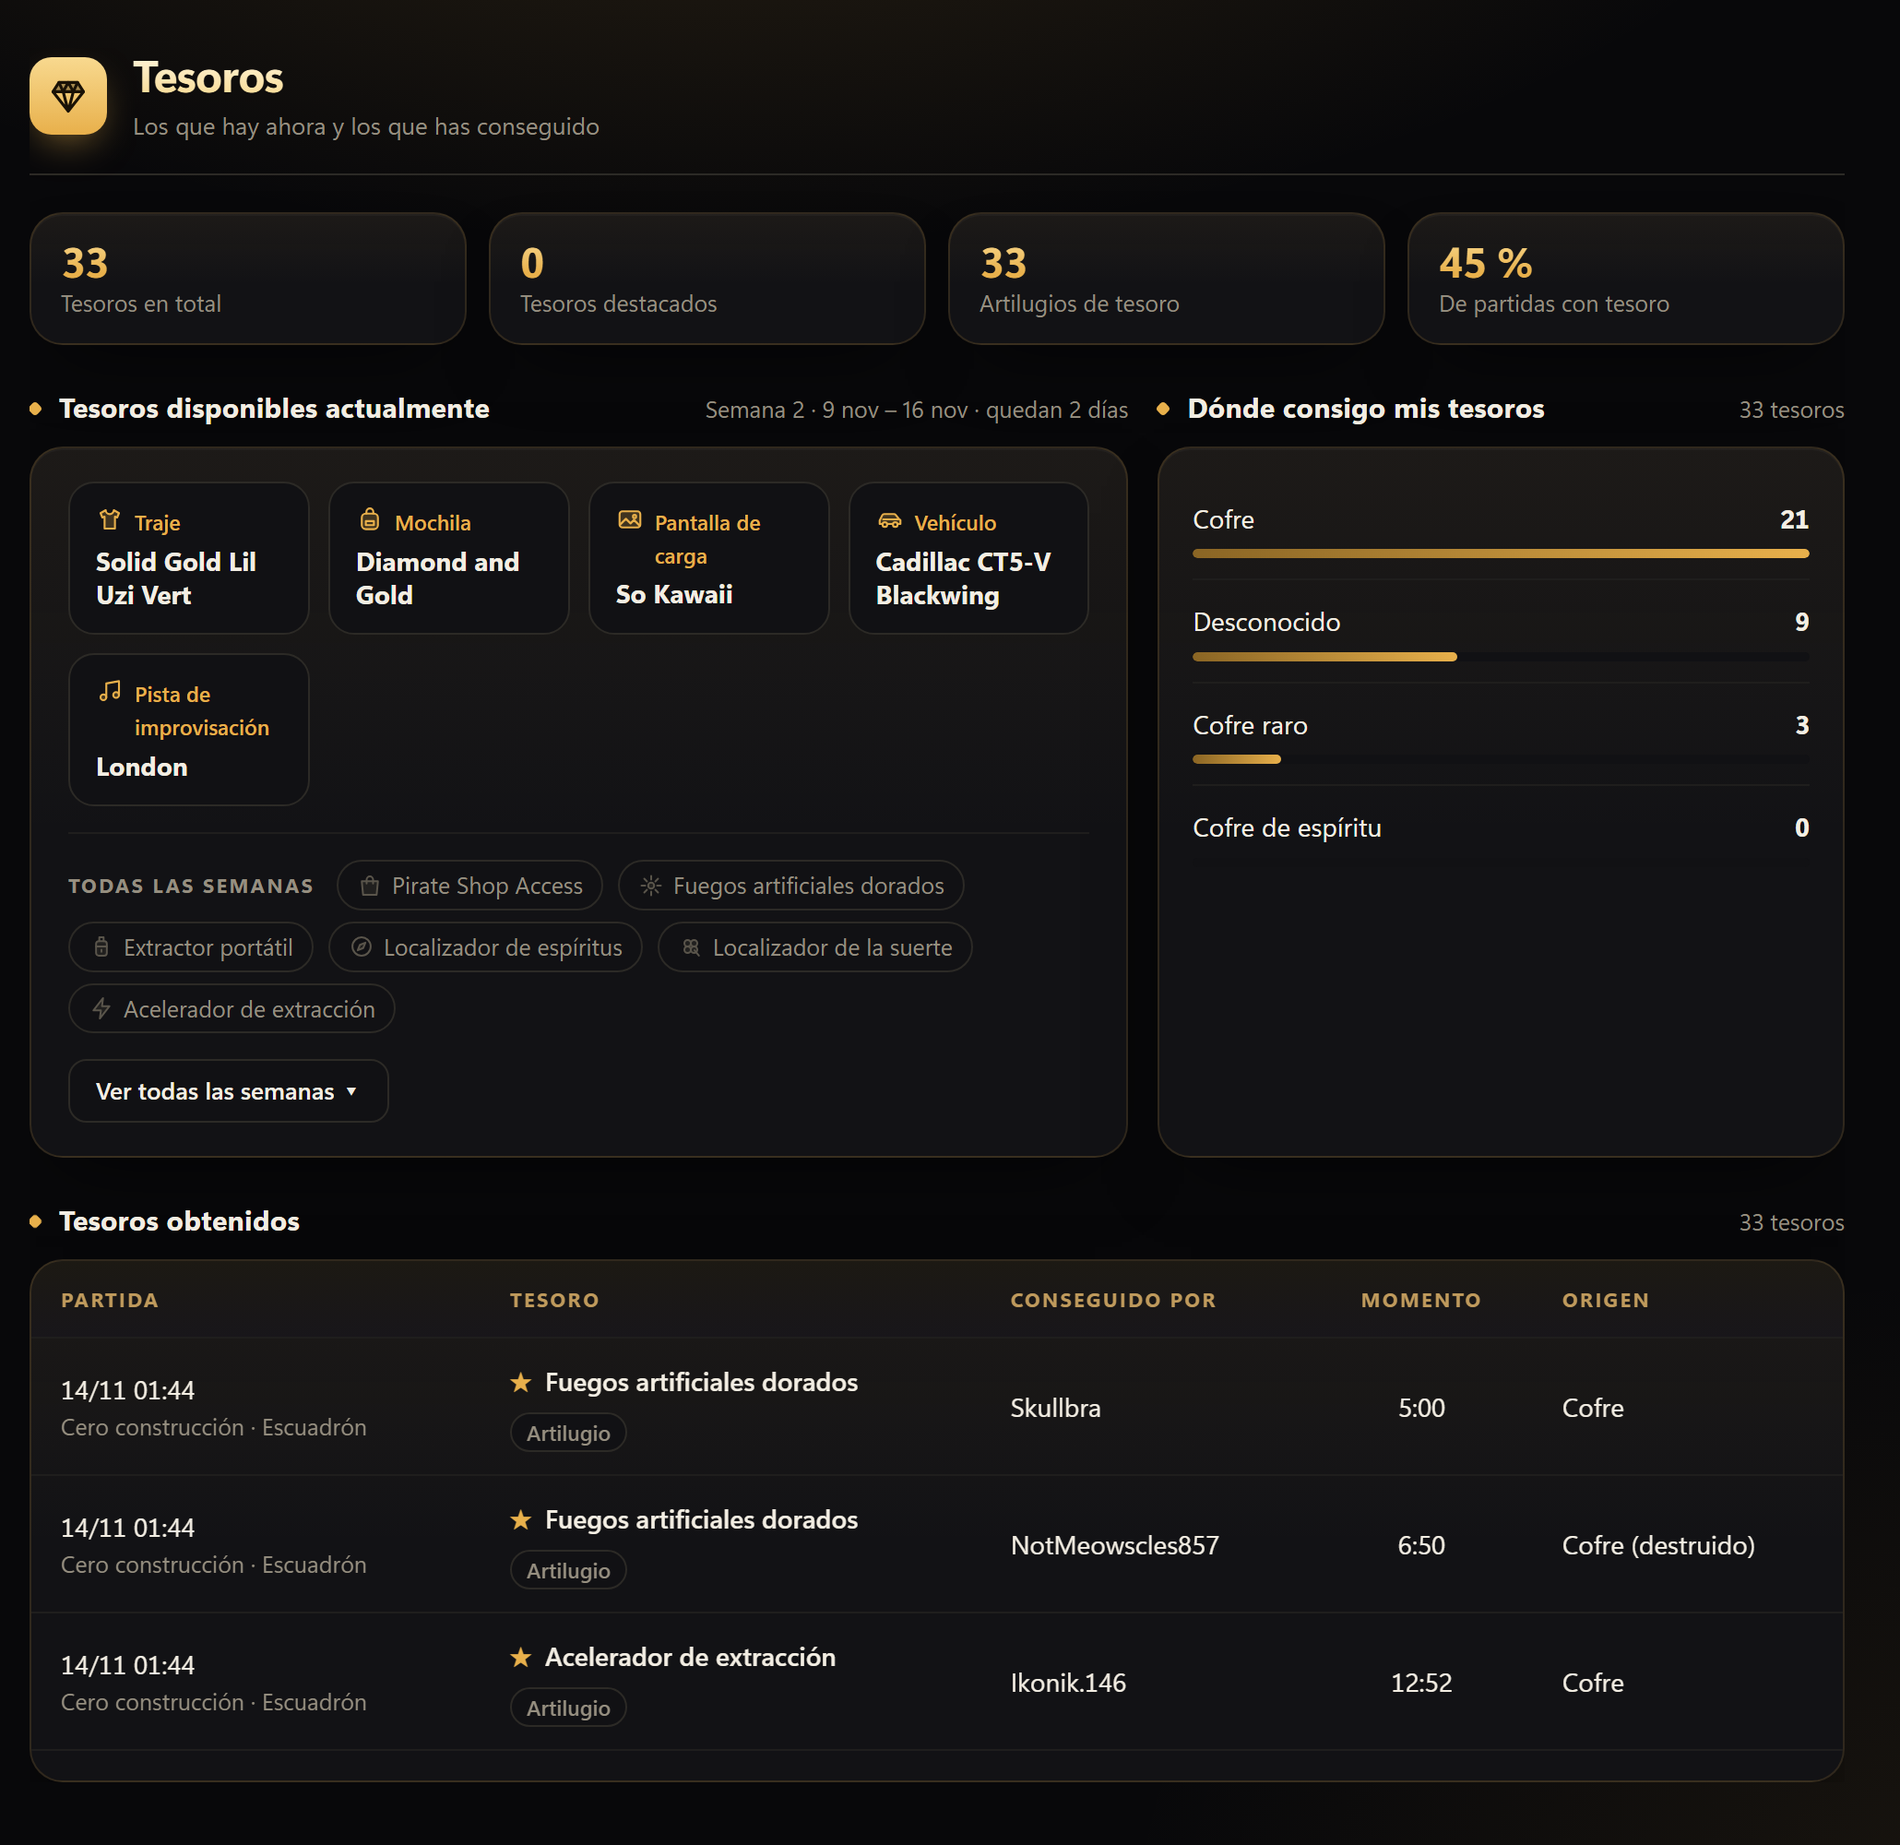
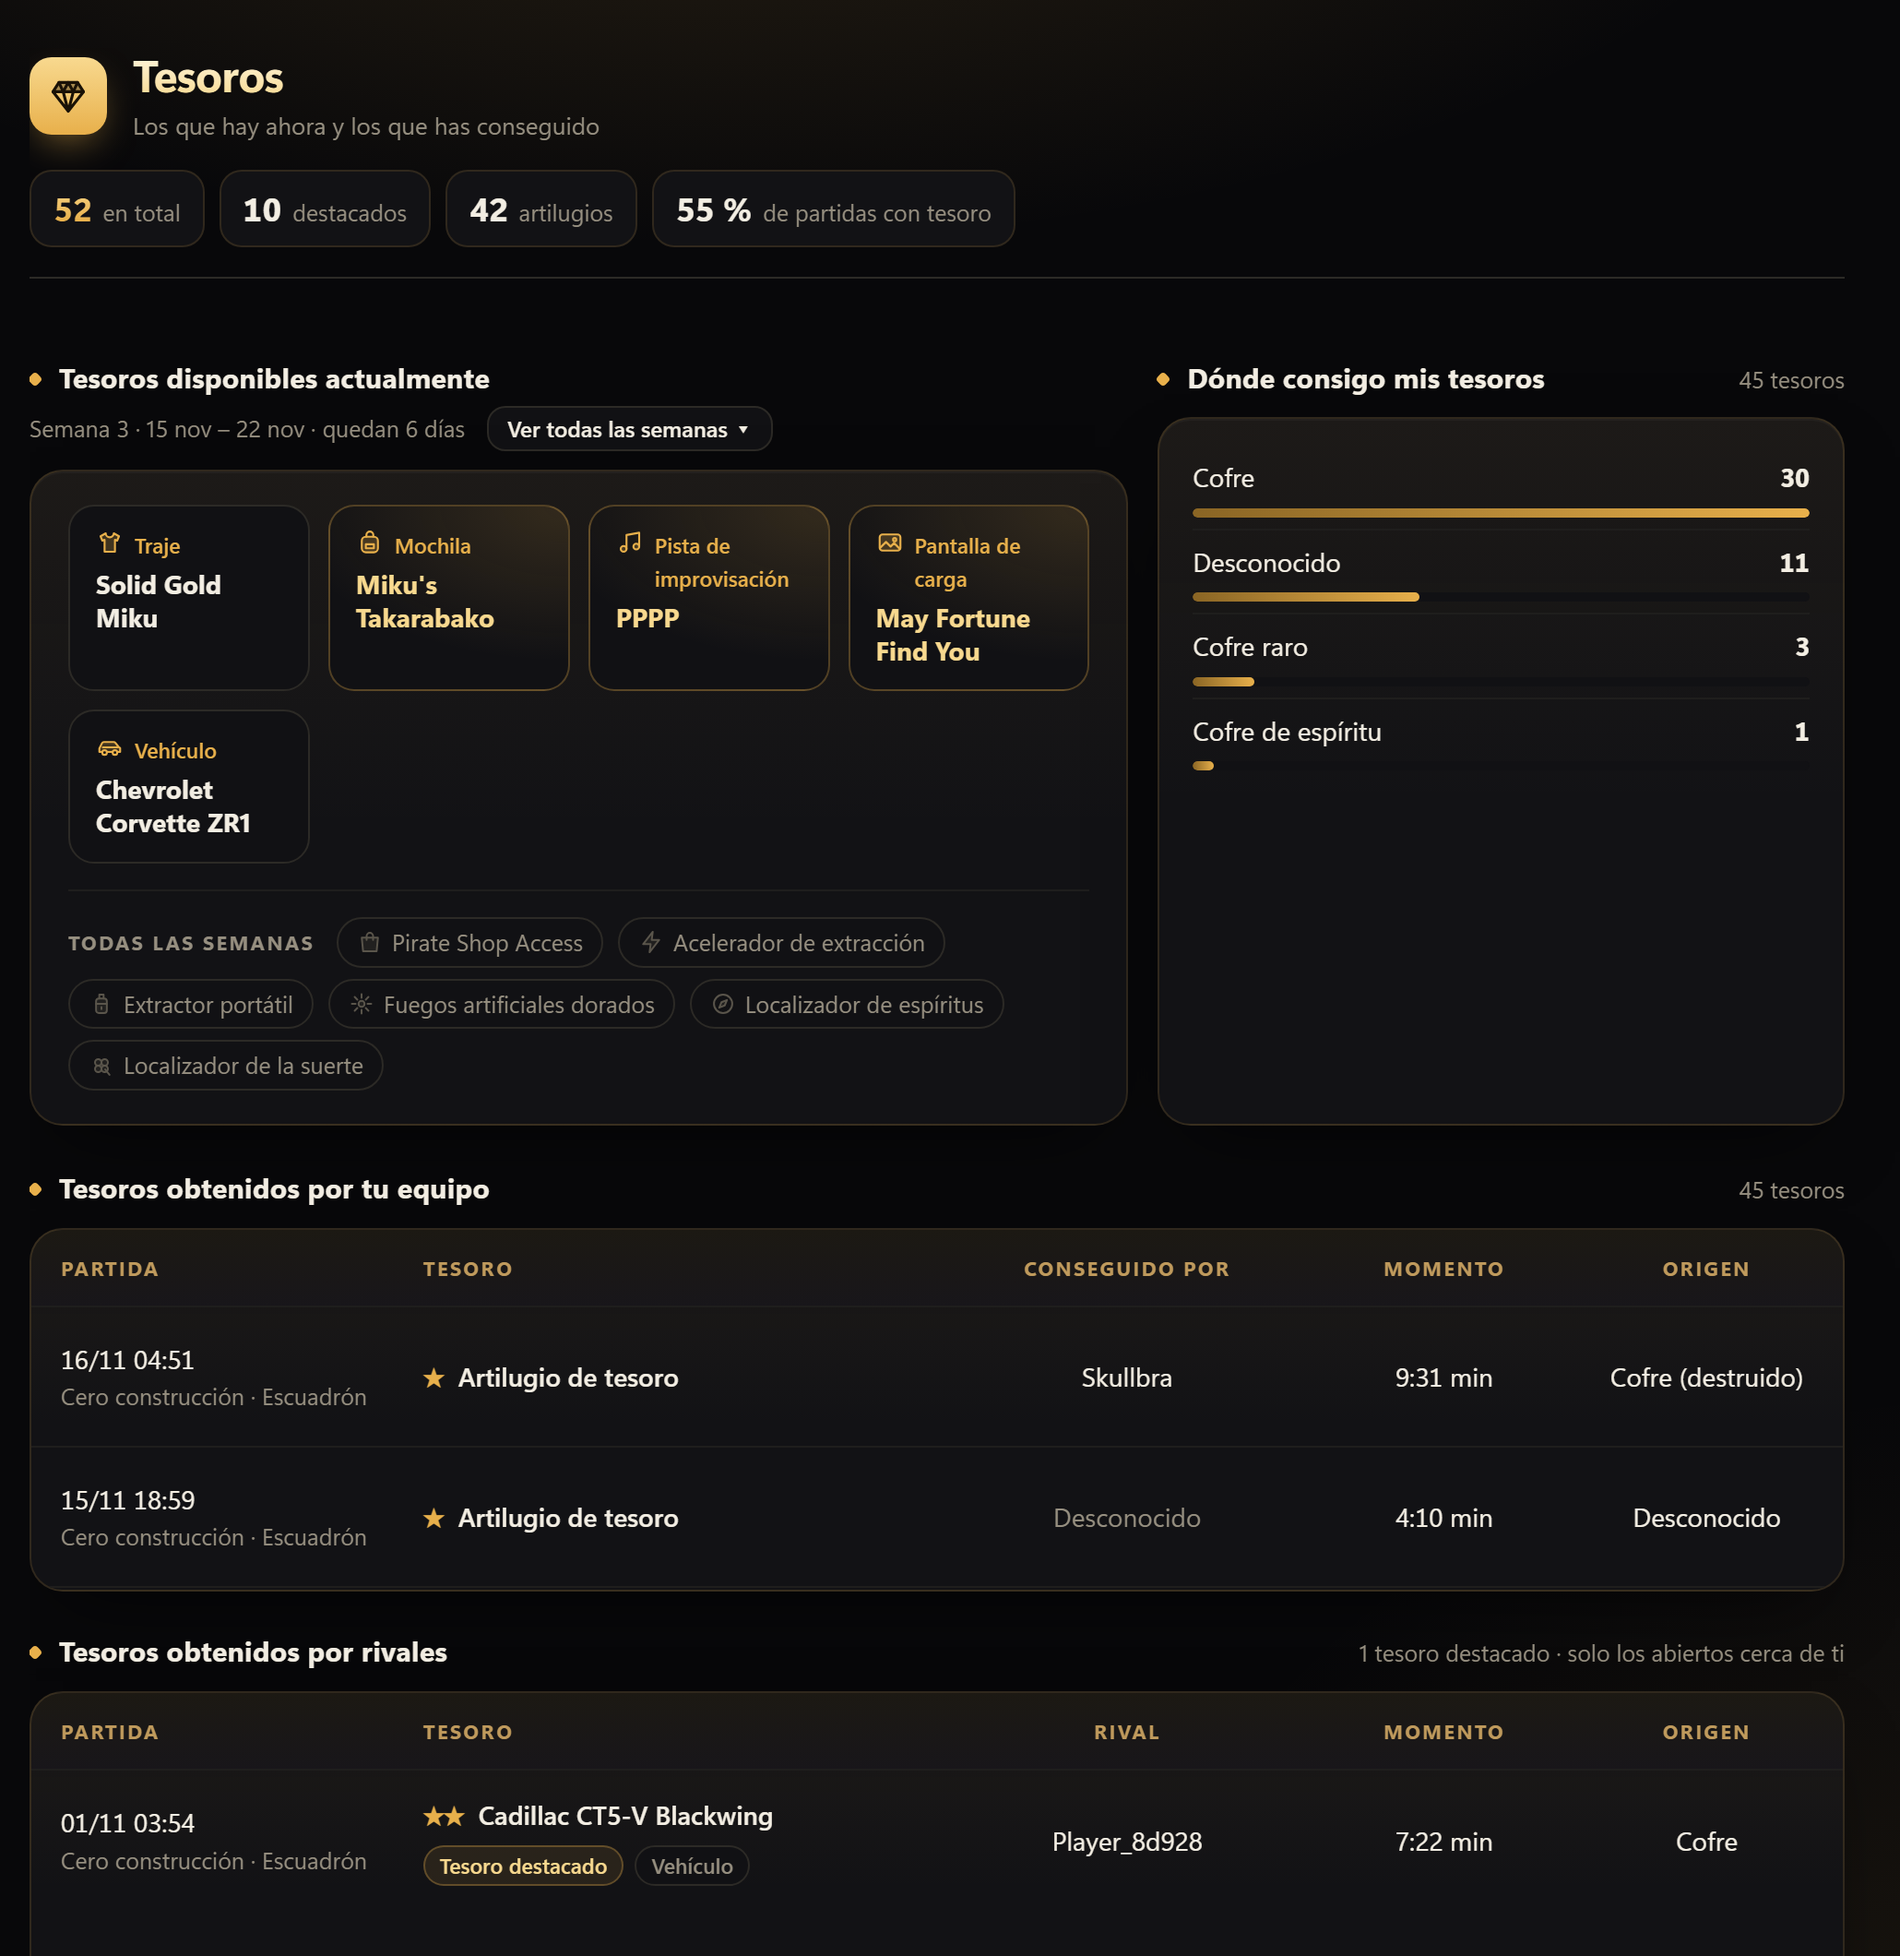
docs: Actualización de README

diff --git a/README.es.md b/README.es.md
@@ -59,7 +59,7 @@ El botón **Estadísticas** las abre en tu navegador, y se actualizan solas mien
 
 <img src="docs/images/stats-summary-es.png" alt="Resumen de estadísticas" width="100%">
 
-**Tesoros** · los que has conseguido, de dónde salieron y los premios de esta semana.
+**Tesoros** · los que has conseguido, los destacados que abren tus rivales cerca de ti y los premios de esta semana.
 
 <img src="docs/images/stats-treasures-es.png" alt="Tesoros" width="100%">
 
@@ -79,6 +79,7 @@ Los cambios se guardan al momento.
 - **Todo se comparte con las estadísticas:** lo que cambies en la app cambia en la web, y al revés.
 - **Cofres antes de FCT:** calcula los que abriste antes de usarlo.
 - **Actualizaciones** automáticas, o que te pregunte.
+- **Copia de seguridad:** FCT guarda una copia al restablecer las estadísticas y puedes restaurarla desde aquí.
 - **Idioma**, **overlay para OBS** y **desinstalar**.
 
 <br clear="right">
@@ -119,7 +120,7 @@ Fortnite solo graba lo que pasa cerca de ti. Si un compañero se aleja mucho, su
 <details>
 <summary><b>¿Pierdo mi historial si Fortnite borra las repeticiones?</b></summary>
 
-No. Cada partida se guarda en cuanto se lee, en `%APPDATA%\FCT`. Si cambias de PC, copia esa carpeta.
+No. Cada partida se guarda en cuanto se lee, en `%APPDATA%\FCT`. Si cambias de PC, copia esa carpeta o restaura una copia de seguridad desde *Configuración*.
 </details>
 
 <details>

diff --git a/README.md b/README.md
@@ -59,7 +59,7 @@ The **Stats** button opens them in your browser, and they update by themselves w
 
 <img src="docs/images/stats-summary-en.png" alt="Stats overview" width="100%">
 
-**💎 Treasures** · the ones you got, where they came from and this week's prizes.
+**💎 Treasures** · the ones you got, the featured ones opponents opened near you and this week's prizes.
 
 <img src="docs/images/stats-treasures-en.png" alt="Treasures" width="100%">
 
@@ -79,6 +79,7 @@ Changes are saved right away.
 - **Everything is shared with the stats:** what you change in the app changes on the web page, and the other way round.
 - **Chests before FCT:** works out the ones you opened before using it.
 - **Automatic updates**, or ask first.
+- **Backup:** FCT keeps a copy when you reset your stats, and you can restore it from here.
 - **Language**, **overlay for OBS** and **uninstall**.
 
 <br clear="right">
@@ -119,7 +120,7 @@ Fortnite only records what happens near you. When a teammate goes far away, thei
 <details>
 <summary><b>Do I lose my history when Fortnite deletes the replays?</b></summary>
 
-No. Each match is saved as soon as it is read, in `%APPDATA%\FCT`. If you change PC, copy that folder.
+No. Each match is saved as soon as it is read, in `%APPDATA%\FCT`. If you change PC, copy that folder or restore a backup from *Settings*.
 </details>
 
 <details>
